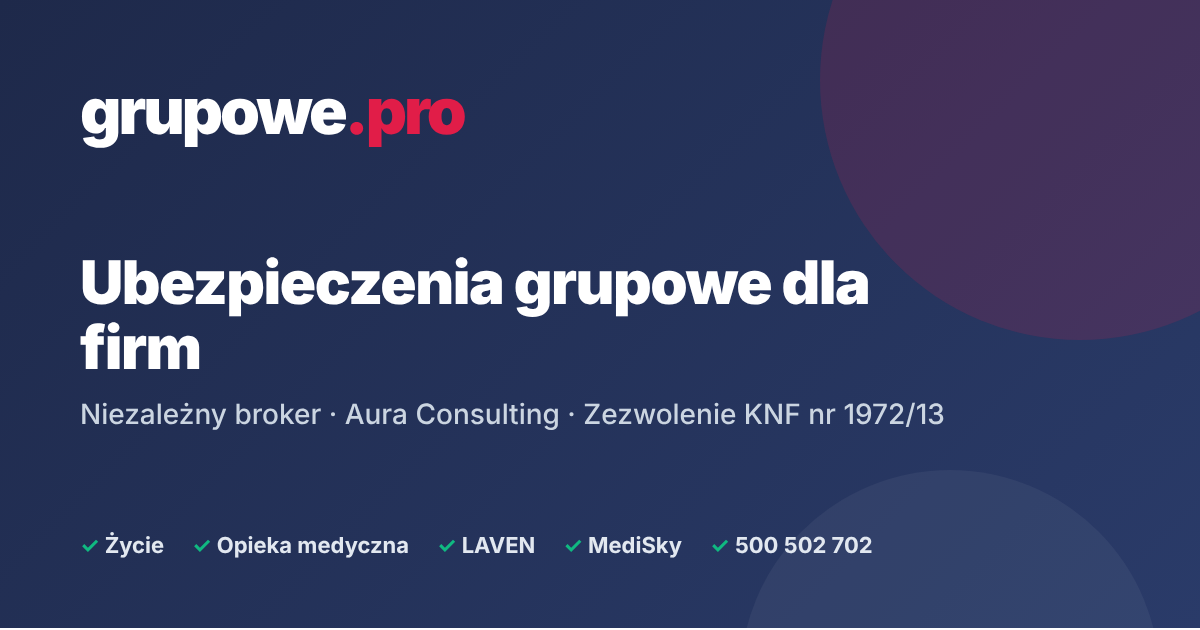
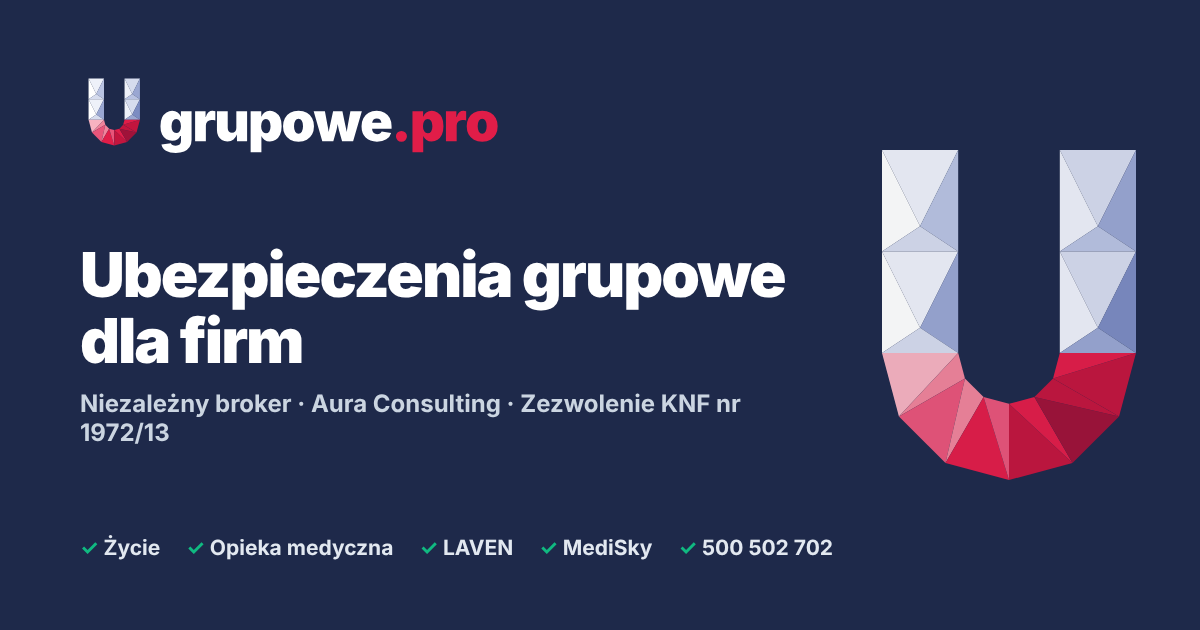
Identyfikacja: fasetowane „U” z rodziny Aura jako znak grupowe.pro
Logo i ikona zbudowane na istniejącej geometrii litery U z utratadochodu.pl
(28 faset, 60×78) w palecie grupowe.pro: granat w ramionach, róż w łuku.

- brand/: sygnet (kolor, mono, biały, na ciemnym), logo poziome (jasne,
  ciemne, mono), logo pionowe, ikony-kafelki, favicon; wordmark Inter Black
  zamieniony na ścieżki, więc SVG nie zależy od fontu.
- brand/brand-sheet.png + .pdf: arkusz prezentacyjny znaku;
  brand/DESIGN-PHILOSOPHY.md: założenia wizualne.
- Strona: inline sygnet w nawigacji i stopce (Mark.astro), nowy favicon,
  ikony 192/512 + apple-touch-icon, manifest, nowy obrazek OG.

Claude-Session: https://claude.ai/code/session_01BwuQC5VrRRssm8gZkRtNse

diff --git a/brand/DESIGN-PHILOSOPHY.md b/brand/DESIGN-PHILOSOPHY.md
@@ -1,0 +1,19 @@
+# Faceted Shelter
+
+*Filozofia wizualna znaku grupowe.pro*
+
+## Manifest
+
+Jedna litera, zbudowana z wielu. Ruch **Faceted Shelter** wychodzi od obserwacji, że ochrona nigdy nie jest monolitem: jest sumą małych, przylegających do siebie powierzchni, z których każda odbija światło pod innym kątem, a razem tworzą kształt, którego żadna z nich nie mogłaby utworzyć sama. Forma powstaje przez cięcie, nie przez rysowanie. Płaszczyzny spotykają się na ostrych krawędziach, a każda krawędź jest decyzją, nad którą ktoś spędził godziny. Nic nie jest zaokrąglone z wygody; wszystko jest zaokrąglone z geometrii.
+
+Przestrzeń jest biała i rozległa. Znak stoi w niej jak obiekt na stole badawczym: w centrum, z oddechem dookoła, w otoczeniu cienkich linii pomiarowych i małych oznaczeń, które sugerują, że został zmierzony, ponumerowany i opisany. Tło nigdy nie konkuruje. Kiedy pojawia się ciemne pole, jest głębokim granatem nocy, w którym fasety świecą jak krawędzie szkła. Kompozycja jest asymetryczna z precyzją: ciężar znaku równoważy delikatna gęstość adnotacji po przeciwnej stronie.
+
+Kolor działa jak światło padające na bryłę. Jedna barwa, siedem tonów: od najjaśniejszej fasety zwróconej ku górze do najgłębszej, ukrytej w cieniu łuku. Granat jest materiałem; róż jest jednym promieniem, który trafia w fundament i rozgrzewa go. Nigdy więcej niż dwie barwy, nigdy gradientów, nigdy przezroczystości. Każdy odcień to płaska, nasycona powierzchnia, dobrana z pieczołowitością kolorysty, który kalibruje tony tak długo, aż bryła zaczyna wyglądać na trójwymiarową bez jednego cienia rzuconego.
+
+Skala i rytm biorą się z powtórzenia. Trójkąt obok trójkąta, moduł obok modułu: ta sama fasetowana siatka, która buduje literę, może budować wzór, krawędź, pole. Typografia jest cicha i techniczna: wąskie grotesk w małym stopniu, mono dla numerów i miar, nigdy akapitów. Słowa są etykietami przy obiekcie, nie opowieścią o nim. Jedno większe słowo może się pojawić, ale wtedy jest częścią kompozycji — równie starannie wyważone jak każda faseta.
+
+Hierarchia jest prosta: najpierw bryła, potem jej cień w postaci schematu, potem oznaczenia, na końcu nazwa. Oko wędruje od całości do szczegółu i z powrotem, odkrywając przy każdym przejściu, że liczba faset, ich kąty i tony nie są przypadkowe. Praca ma wyglądać na dzieło kogoś na szczycie swojego rzemiosła: na coś, co powstawało tygodniami, było sprawdzane linijką i przerysowywane, aż każde przecięcie trafiło dokładnie tam, gdzie powinno. Mistrzowska precyzja widoczna w każdym milimetrze, nie w ilości elementów.
+
+## Nić koncepcyjna
+
+Znak dziedziczy geometrię po literze U z rodziny Aura (UtrataDochodu). To samo U — **Ubezpieczenia** — w nowym świetle: tam, gdzie błękit mówił o jednym człowieku i jego dochodzie, granat mówi o zespole, a różowy fundament łuku o tym, co firma daje swoim ludziom. Ktoś, kto zna oba znaki, zobaczy rodzinę. Ktoś, kto nie zna, zobaczy po prostu dobrze wyciętą literę.
